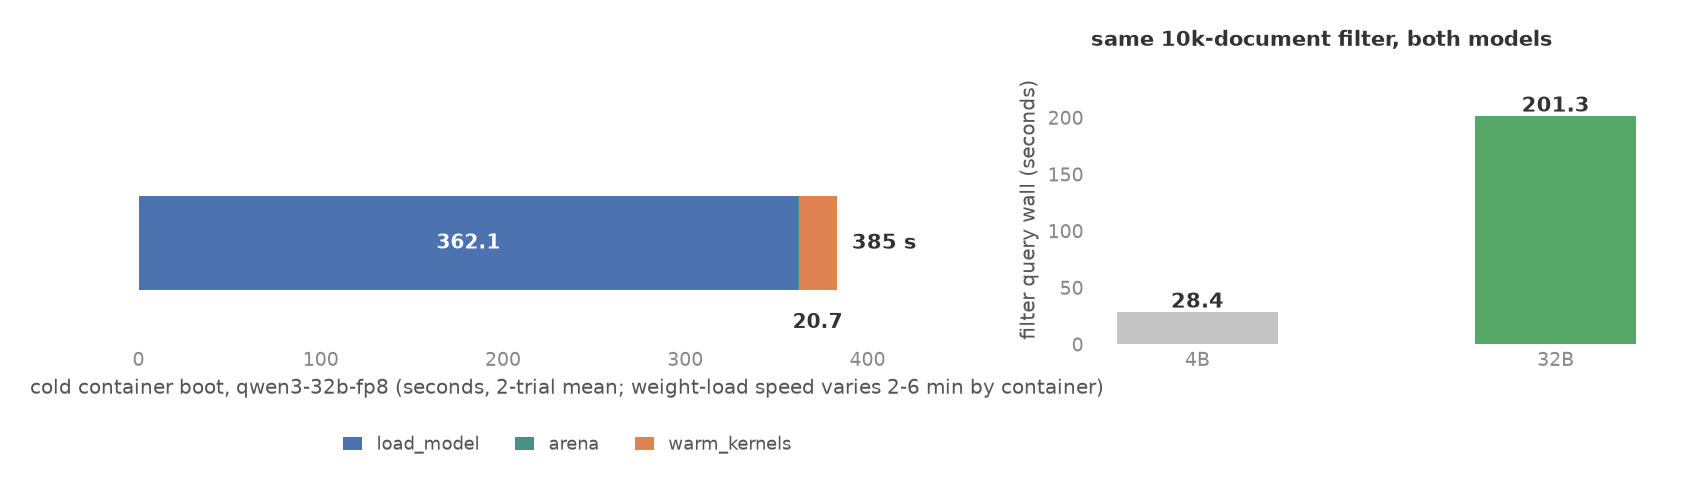
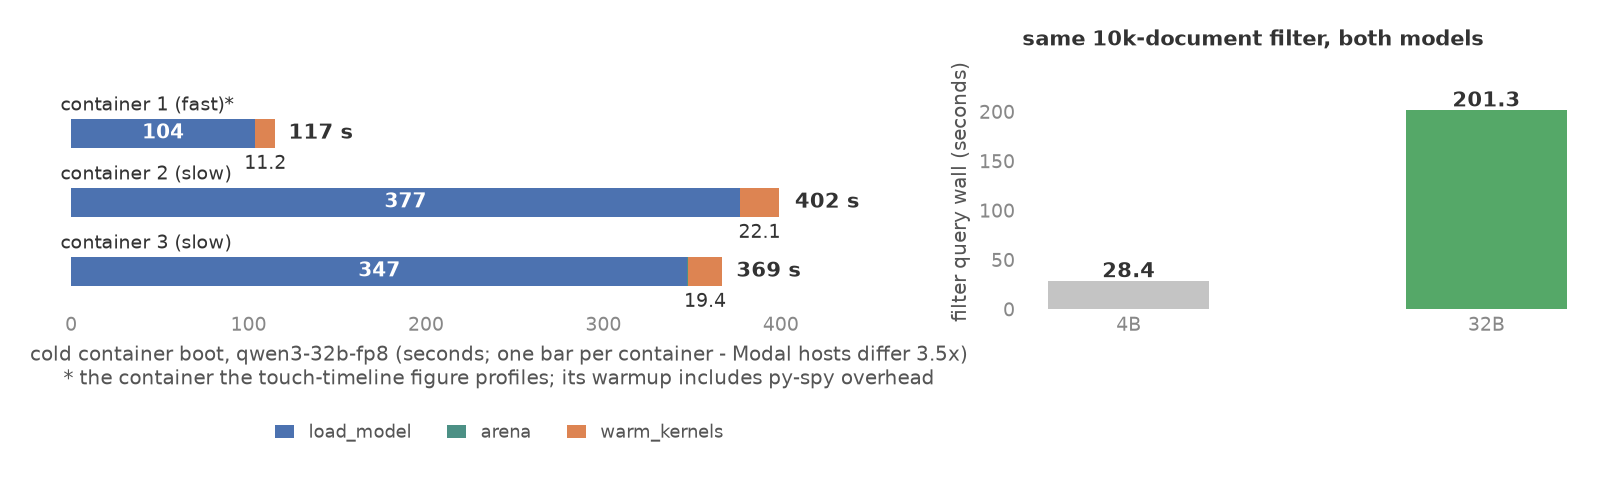
32B boot figure: one bar per container instead of a mean
32B weight-load speed differs 3.5x with the container drawn; a mean
hid that and contradicted the timeline figure's container (104 s
load), which is now the starred bar.

Claude-Session: https://claude.ai/code/session_01B1e7WkXJap1QgTaqrRG9xU

diff --git a/quail/reports/make_boot_plots.py b/quail/reports/make_boot_plots.py
@@ -144,40 +144,53 @@ for model, entry in tl["models"].items():
 
 
 # ---- figure 3: 32B boot phases + query ------------------------------
+# One bar per container, not a mean: 32B weight-load speed varies
+# 3.5x with the container drawn, and averaging that hides it. The
+# starred container is the one the timeline figure profiles.
 t32 = json.load(open(RESULTS / "boot_tiered_32b.json"))
-cold32 = t32["touch"]["cold"]
+t32spy = json.load(open(RESULTS / "boot_tiered_32b_spy.json"))
+rows32 = [(r["cold"], label) for r, label in zip(
+    t32spy["touch"]["trials"] + t32["touch"]["trials"],
+    ["container 1 (fast)*", "container 2 (slow)",
+     "container 3 (slow)"])]
 
 fig3, (ax_b, ax_q2) = plt.subplots(
-    1, 2, figsize=(10.5, 3.4),
+    1, 2, figsize=(10.5, 3.6),
     gridspec_kw={"width_ratios": [1.5, 1]})
 
-left = 0.0
-total32 = mean_s(cold32, "boot_s")
-for name, key, color in PHASES:
-    val = mean_s(cold32, key)
-    if not val:
-        continue
-    ax_b.barh(0, val, left=left, height=0.42, color=color)
-    if val >= total32 * 0.15:
-        ax_b.text(left + val / 2, 0, f"{val:.1f}",
-                  ha="center", va="center", fontsize=9.5,
-                  color="white", fontweight="bold")
-    elif val >= total32 * 0.02:
-        ax_b.text(left + val / 2, -0.31, f"{val:.1f}",
-                  ha="center", va="top", fontsize=9.5,
-                  color=DARK, fontweight="bold")
-    left += val
-ax_b.text(total32 + 6, 0, f"{total32:.0f} s", va="center",
-          fontsize=10, color=DARK, fontweight="bold")
-ax_b.set_xlim(0, total32 * 1.22)
-ax_b.set_ylim(-0.45, 0.75)
+max32 = max(c["boot_s"] for c, _ in rows32)
+for y, (cold, label) in enumerate(reversed(rows32)):
+    left = 0.0
+    for name, key, color in PHASES:
+        val = cold[key]
+        if not val:
+            continue
+        ax_b.barh(y, val, left=left, height=0.42, color=color)
+        if val >= max32 * 0.15:
+            ax_b.text(left + val / 2, y, f"{val:.0f}",
+                      ha="center", va="center", fontsize=9.5,
+                      color="white", fontweight="bold")
+        elif val >= max32 * 0.02:
+            ax_b.text(left + val / 2, y - 0.31, f"{val:.1f}",
+                      ha="center", va="top", fontsize=9,
+                      color=DARK)
+        left += val
+    ax_b.text(cold["boot_s"] + 6, y, f"{cold['boot_s']:.0f} s",
+              va="center", fontsize=10, color=DARK,
+              fontweight="bold")
+    ax_b.text(-6, y + 0.33, label, fontsize=9, color=DARK,
+              ha="left")
+ax_b.set_xlim(0, max32 * 1.2)
+ax_b.set_ylim(-0.55, 2.85)
 ax_b.set_yticks([])
 ax_b.set_xlabel(
-    "cold container boot, qwen3-32b-fp8 (seconds, 2-trial mean; "
-    "weight-load speed varies 2-6 min by container)")
+    "cold container boot, qwen3-32b-fp8 (seconds; one bar per "
+    "container - Modal hosts differ 3.5x)\n"
+    "* the container the touch-timeline figure profiles; its "
+    "warmup includes py-spy overhead")
 ax_b.legend(
     handles=[Patch(facecolor=c, label=n) for n, _, c in PHASES],
-    loc="upper center", bbox_to_anchor=(0.5, -0.28), ncol=3,
+    loc="upper center", bbox_to_anchor=(0.5, -0.42), ncol=3,
     fontsize=8.5, handlelength=1.1)
 
 best32 = t32["query"]["best_wall"]["no_arena"]
